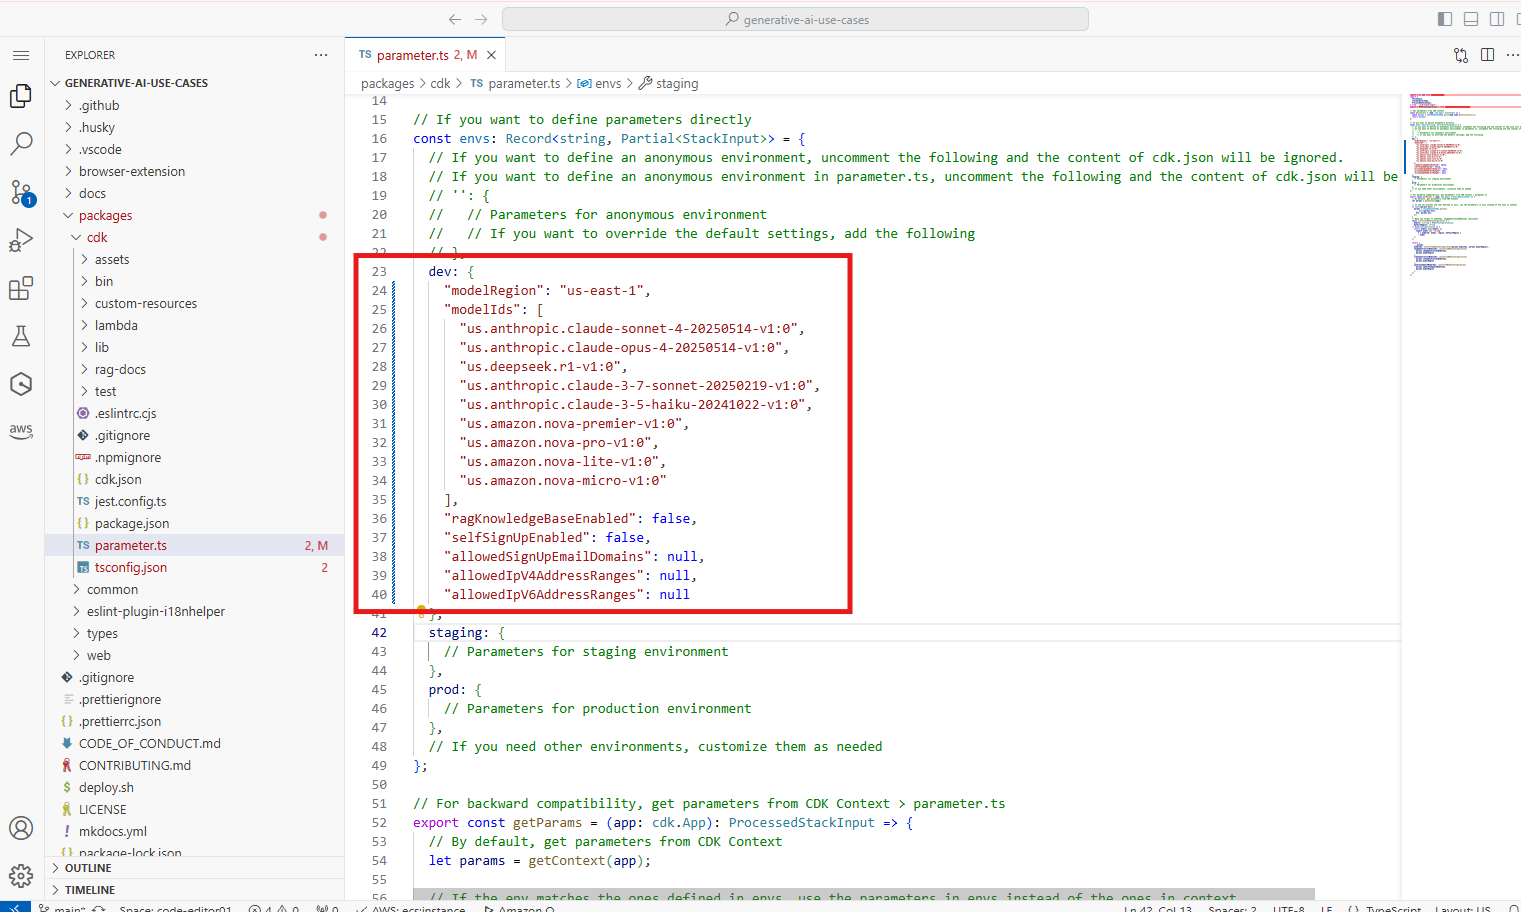
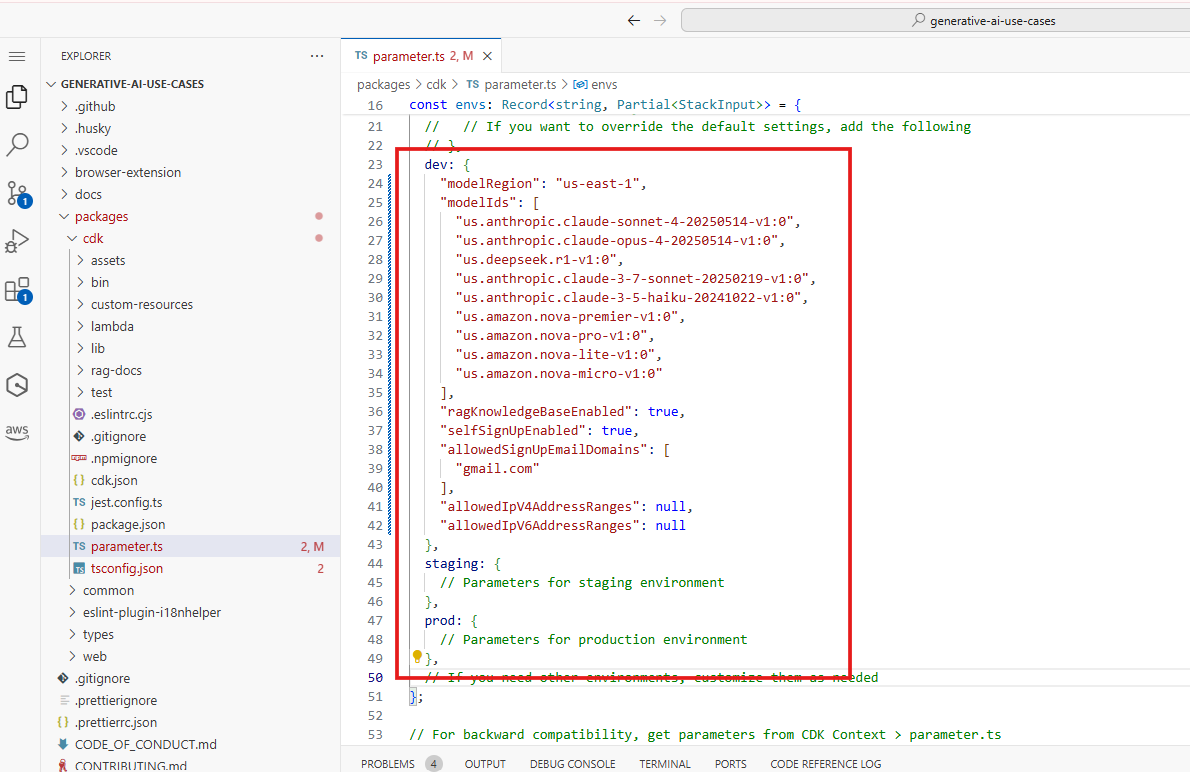
change default deploy region of GenU

diff --git a/docs/solutions/generative-ai-use-cases-update.en.md b/docs/solutions/generative-ai-use-cases-update.en.md
@@ -12,7 +12,6 @@ In one-click deployment, the parameters used during GenU deployment are stored i
 
 Open the [AWS Systems Manager Parameter Store console](https://ap-northeast-1.console.aws.amazon.com/systems-manager/parameters) and check the parameters. By default, they are created in the Tokyo region, but if you changed it, check in the destination region.
 
-
 The following parameters are stored with the Environment name specified during deployment (default is dev)  
 - `/genu/dev.json` - All parameters for dev environment stored in JSON format  
 - `/genu/staging.json` - Parameters for staging environment (if deployed)  
@@ -36,9 +35,11 @@ The parameter content is stored in JSON format as follows:
     "us.amazon.nova-lite-v1:0",
     "us.amazon.nova-micro-v1:0"
   ],
-  "ragKnowledgeBaseEnabled": false,
+  "ragKnowledgeBaseEnabled": true,
   "selfSignUpEnabled": false,
-  "allowedSignUpEmailDomains": null,
+  "allowedSignUpEmailDomains": [
+    "gmail.com"
+  ],
   "allowedIpV4AddressRanges": null,
   "allowedIpV6AddressRanges": null
 }
@@ -88,18 +89,26 @@ Press Yes, I trust the authors.
 Open `packages/cdk/parameter.ts`.  
 ![genu-update-05](../assets/images/solutions/generative-ai-use-cases-update/genu-update-05.png)
 
-Set parameters in SageMaker Code Editor based on the parameter content confirmed from Parameter Store in the previous step.
-Look at the Parameter Store names (`/genu/dev.json`, `/genu/staging.json`, `/genu/prod.json`) to identify the section to edit.
+Again, press New Terminal to open the Terminal.  
+![genu-update-01](../assets/images/solutions/generative-ai-use-cases-update/genu-update-01.png)
 
-By default, dev is used. Edit the dev parameters to the values from parameter store `/genu/dev.json`. (around line 23)
+Move to the directory where GenU was cloned.  
+```shell
+cd /home/sagemaker-user/generative-ai-use-cases/
+```
 
-First, retrieve data from Parameter Store and store it in the variable PARAMS.
+Edit the `parameter.ts` file using the Parameter Store values confirmed in the previous step.  
+For environments using the default dev, automatic configuration using commands is possible.  
+Look at the Parameter Store names (`/genu/dev.json`, `/genu/staging.json`, `/genu/prod.json`) and if using `dev`, execute the following commands.  
+If using environments other than `dev`, manually copy and paste the Parameter Store values to directly edit the `parameter.ts` file.
+
+If using `dev`, retrieve data from Parameter Store and store it in the variable PARAMS.  
 
 ```shell
 PARAMS=$(aws ssm get-parameter --name "/genu/dev.json" --query "Parameter.Value" --output text)
 ```
 
-Next, use the following command to edit the `parameter.ts` file.
+Next, execute the following command to edit the `parameter.ts` file.  
 
 ```shell
 node -e "
@@ -108,13 +117,18 @@ const params = $PARAMS;
 let content = fs.readFileSync('packages/cdk/parameter.ts', 'utf8');
 const devStart = content.indexOf('dev: {');
 const devEnd = content.indexOf('},', devStart) + 2;
-const newDevSection = 'dev: ' + JSON.stringify(params, null, 4) + ',';
+const jsonString = JSON.stringify(params, null, 2);
+const indentedJson = jsonString.split('\n').map((line, index) => {
+  if (index === 0) return line;
+  return '  ' + line;
+}).join('\n');
+const newDevSection = 'dev: ' + indentedJson + ',';
 content = content.substring(0, devStart) + newDevSection + content.substring(devEnd);
 fs.writeFileSync('packages/cdk/parameter.ts', content);
 "
 ```
 
-The dev file content should be edited as follows:
+The dev file content should be edited as follows:  
 
 ```ts
   dev: {
@@ -130,11 +144,19 @@ The dev file content should be edited as follows:
       "us.amazon.nova-lite-v1:0",
       "us.amazon.nova-micro-v1:0"
     ],
-    "ragKnowledgeBaseEnabled": false,
+    "ragKnowledgeBaseEnabled": true,
     "selfSignUpEnabled": false,
-    "allowedSignUpEmailDomains": null,
+    "allowedSignUpEmailDomains": [
+      "gmail.com"
+    ],
     "allowedIpV4AddressRanges": null,
     "allowedIpV6AddressRanges": null
+  },
+  staging: {
+    // Parameters for staging environment
+  },
+  prod: {
+    // Parameters for production environment
   },
 ```
 
@@ -144,26 +166,12 @@ This is an example of the screen after editing.
 Let's change the parameters. In this procedure, we will change the models to use.  
 ![genu-update-07](../assets/images/solutions/generative-ai-use-cases-update/genu-update-07.png)
 
-Open the Terminal again.  
-![genu-update-08](../assets/images/solutions/generative-ai-use-cases-update/genu-update-08.png)
-
-Execute the following command:
-```shell
-cd /home/sagemaker-user/generative-ai-use-cases/
-```
-
-Execution example:
-```shell
-sagemaker-user@default:~$ cd /home/sagemaker-user/generative-ai-use-cases/
-sagemaker-user@default:~/generative-ai-use-cases$ 
-```
-
-Resolve dependencies:
+Resolve dependencies.  
 ```shell
 npm ci
 ```
 
-Execution example:
+Execution example  
 ```shell
 sagemaker-user@default:~/generative-ai-use-cases$ npm ci
 npm warn deprecated sourcemap-codec@1.4.8: Please use @jridgewell/sourcemap-codec instead
@@ -197,13 +205,13 @@ npm notice
 sagemaker-user@default:~/generative-ai-use-cases$ 
 ```
 
-Update GenU. The `env=dev` parameter specifies the Environment name you want to deploy. The default is dev.
+Update GenU. The `env=dev` parameter specifies the Environment name you want to deploy. The default is dev.  
 
 ```shell
 npm run cdk:deploy:quick -- -c env=dev
 ```
 
-Execution example:
+Execution example  
 
 ```shell
 sagemaker-user@default:~/generative-ai-use-cases$ npm run cdk:deploy:quick -- -c env=dev
@@ -231,7 +239,7 @@ found 0 vulnerabilities
 
 ```
 
-After some time, deployment is complete. The original GenU has been updated.
+After some time, deployment is complete. The original GenU has been updated.  
 
 ```shell
 GenerativeAiUseCasesStackdev.WebUrl = https://xxxxxxxxx.cloudfront.net
@@ -244,16 +252,16 @@ sagemaker-user@default:~/generative-ai-use-cases$
 ```
 
 ## Steps for Updating GenU from the Second Time Onwards {#second-time-update}
-This section introduces the steps for updating GenU from the second time onwards using SageMaker Code Editor. While the first time used git clone, the second time onwards has different steps since it's already cloned.
+This section introduces the steps for updating GenU from the second time onwards using SageMaker Code Editor. While the first time used git clone, the second time onwards has different steps since it's already cloned.  
 After opening SageMaker Code Editor, open the GenU directory with Open Folder.
 
 ![genu-update-repeat-01](../assets/images/solutions/generative-ai-use-cases-update/genu-update-repeat-01.png)
 
-Open `packages/cdk/parameter.ts` and note down the values of `dev`, `staging`, and `prod`. **Be careful not to forget to take notes, as recovery is difficult if lost!**
+Open `packages/cdk/parameter.ts` and note down the values of `dev`, `staging`, and `prod`. **Be careful not to forget to take notes, as recovery is difficult if lost!**  
 
 ![genu-update-repeat-02](../assets/images/solutions/generative-ai-use-cases-update/genu-update-repeat-02.png)
 
-Move to the git cloned directory.
+Move to the git cloned directory.  
 
 ```shell
 cd /home/sagemaker-user/generative-ai-use-cases/
@@ -280,7 +288,7 @@ npm ci
 Edit the `parameter.ts` file. Restore the previously saved values of `dev`, `staging`, and `prod`.  
 ![genu-update-repeat-02](../assets/images/solutions/generative-ai-use-cases-update/genu-update-repeat-02.png)
 
-Update GenU. The `env=dev` parameter specifies the Environment name you want to deploy. The default is dev.
+Update GenU. The `env=dev` parameter specifies the Environment name you want to deploy. The default is dev.  
 
 ```shell
 npm run cdk:deploy:quick -- -c env=dev

diff --git a/docs/solutions/generative-ai-use-cases-update.md b/docs/solutions/generative-ai-use-cases-update.md
@@ -91,19 +91,26 @@ Yes, I trust the authors を押します。
 `packages/cdk/parameter.ts` を開きます。  
 ![genu-update-05](../assets/images/solutions/generative-ai-use-cases-update/genu-update-05.png)
 
+再び、New Terminal を押して、Terminal を開きます。  
+![genu-update-01](../assets/images/solutions/generative-ai-use-cases-update/genu-update-01.png)
 
-前の手順で Parameter Store から確認した パラメーターの内容を参考に、SageMaker Code Editor でパラメータを設定します。　　
-Parameter Store の名前 (`/genu/dev.json`, `/genu/staging.json`, `/genu/prod.json`) を見て、編集する箇所を特定します。 
+GenU を clone したディレクトリに移動します。  
+```shell
+cd /home/sagemaker-user/generative-ai-use-cases/
+```
 
-デフォルトでは、dev を利用しています。dev のパタメーターを、parameter store の `/genu/dev.json` の値に編集します。(23 行目付近)    
+前の手順で確認した Parameter Store の値を利用して、`parameter.ts` のファイルを編集していきます。  
+Environment でデフォルトの dev を利用している場合は、コマンドを利用した自動設定が可能です。  
+Parameter Store の名前 (`/genu/dev.json`, `/genu/staging.json`, `/genu/prod.json`) を見て、`dev` を利用している場合は、以下のコマンドを実行していきます。  
+`dev` 以外を利用している場合は、Parameter Store の値を手動でコピペしていき、`parameter.ts` のファイルを直接編集します。　　
 
-まず、Parameter Store からデータを取得して、変数 PARAMS に格納します。  
+`dev` を利用している場合、Parameter Store からデータを取得して、変数 PARAMS に格納します。  
 
 ```shell
 PARAMS=$(aws ssm get-parameter --name "/genu/dev.json" --query "Parameter.Value" --output text)
 ```
 
-次に以下のコマンドをつかって、`parameter.ts` ファイルを編集します。  
+次に以下のコマンドを発行して、`parameter.ts` ファイルを編集します。  
 
 ```shell
 node -e "
@@ -112,7 +119,12 @@ const params = $PARAMS;
 let content = fs.readFileSync('packages/cdk/parameter.ts', 'utf8');
 const devStart = content.indexOf('dev: {');
 const devEnd = content.indexOf('},', devStart) + 2;
-const newDevSection = 'dev: ' + JSON.stringify(params, null, 4) + ',';
+const jsonString = JSON.stringify(params, null, 2);
+const indentedJson = jsonString.split('\n').map((line, index) => {
+  if (index === 0) return line;
+  return '  ' + line;
+}).join('\n');
+const newDevSection = 'dev: ' + indentedJson + ',';
 content = content.substring(0, devStart) + newDevSection + content.substring(devEnd);
 fs.writeFileSync('packages/cdk/parameter.ts', content);
 "
@@ -134,11 +146,19 @@ fs.writeFileSync('packages/cdk/parameter.ts', content);
       "us.amazon.nova-lite-v1:0",
       "us.amazon.nova-micro-v1:0"
     ],
-    "ragKnowledgeBaseEnabled": false,
+    "ragKnowledgeBaseEnabled": true,
     "selfSignUpEnabled": false,
-    "allowedSignUpEmailDomains": null,
+    "allowedSignUpEmailDomains": [
+      "gmail.com"
+    ],
     "allowedIpV4AddressRanges": null,
     "allowedIpV6AddressRanges": null
+  },
+  staging: {
+    // Parameters for staging environment
+  },
+  prod: {
+    // Parameters for production environment
   },
 ```
 
@@ -147,20 +167,6 @@ fs.writeFileSync('packages/cdk/parameter.ts', content);
 
 パラメーターを変更してみましょう。今回の手順では、利用するモデルを変更します。  
 ![genu-update-07](../assets/images/solutions/generative-ai-use-cases-update/genu-update-07.png)
-
-再び Terminal を開きます。  
-![genu-update-08](../assets/images/solutions/generative-ai-use-cases-update/genu-update-08.png)
-
-以下のコマンドを実行します。  
-```shell
-cd /home/sagemaker-user/generative-ai-use-cases/
-```
-
-実行例  
-```shell
-sagemaker-user@default:~$ cd /home/sagemaker-user/generative-ai-use-cases/
-sagemaker-user@default:~/generative-ai-use-cases$ 
-```
 
 依存関係を解決します。  
 ```shell
